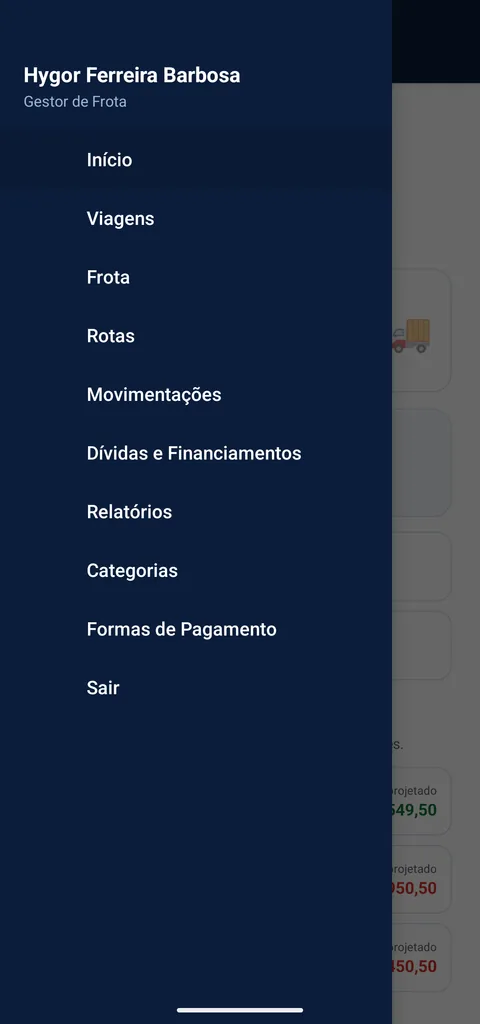
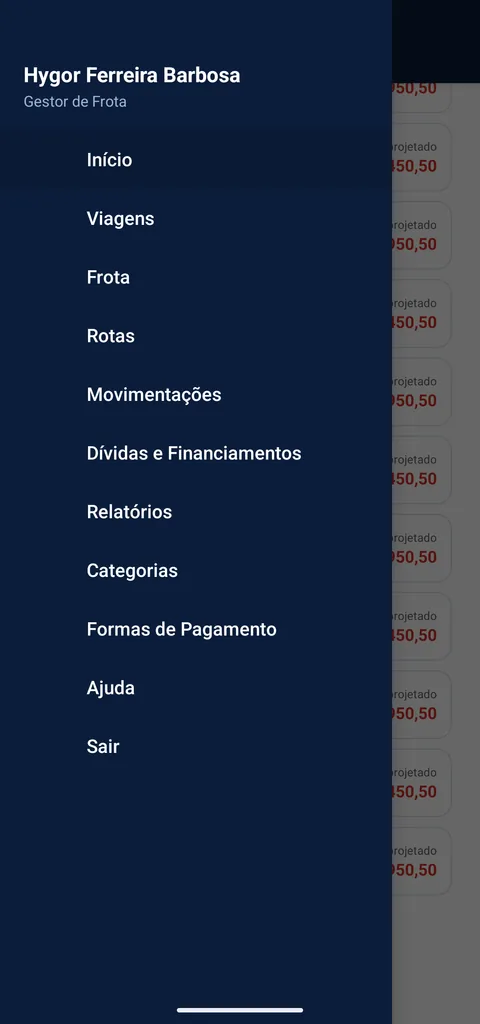
docs: print do menu do Gestor com Ajuda e atalhos da ajuda seguem o filtro
- Print do menu do Gestor de Frota refeito: o anterior era de antes do
  item Ajuda e mostrava, atrás do menu, o caminhão-emoji antigo do Início.
  Era a última imagem da ajuda e do manual com emoji.
- Central de Ajuda: os atalhos do topo agora somem junto com o assunto
  escondido pelo filtro de perfil ou pela busca (o Gestor via o atalho
  Usuários, que não levava a lugar nenhum).

Conferido: no emulador, o menu do Gestor abre ajuda.html?perfil=gestor;
no navegador, os atalhos de Gestor, Motorista e da busca por placa.

Claude-Session: https://claude.ai/code/session_01VgW1r5VSRUvntRRnvnhaqV

diff --git a/GestaoFrota.Web/js/ajuda.js b/GestaoFrota.Web/js/ajuda.js
@@ -15,6 +15,7 @@
   const nada = document.getElementById('nada');
   const topicos = Array.from(document.querySelectorAll('.topico'));
   const botoesPerfil = Array.from(document.querySelectorAll('.ajuda-perfil'));
+  const atalhos = Array.from(document.querySelectorAll('.ajuda-indice a'));
 
   let perfil = 'todos';
 
@@ -47,6 +48,12 @@
         d.hidden = termos.length > 0 && !bate;
       });
     }
+
+    // Atalhos do topo seguem o filtro: sem atalho para assunto escondido.
+    atalhos.forEach(a => {
+      const alvo = document.getElementById(a.hash.slice(1));
+      a.hidden = !!alvo && alvo.hidden;
+    });
 
     nada.hidden = algum;
   }
